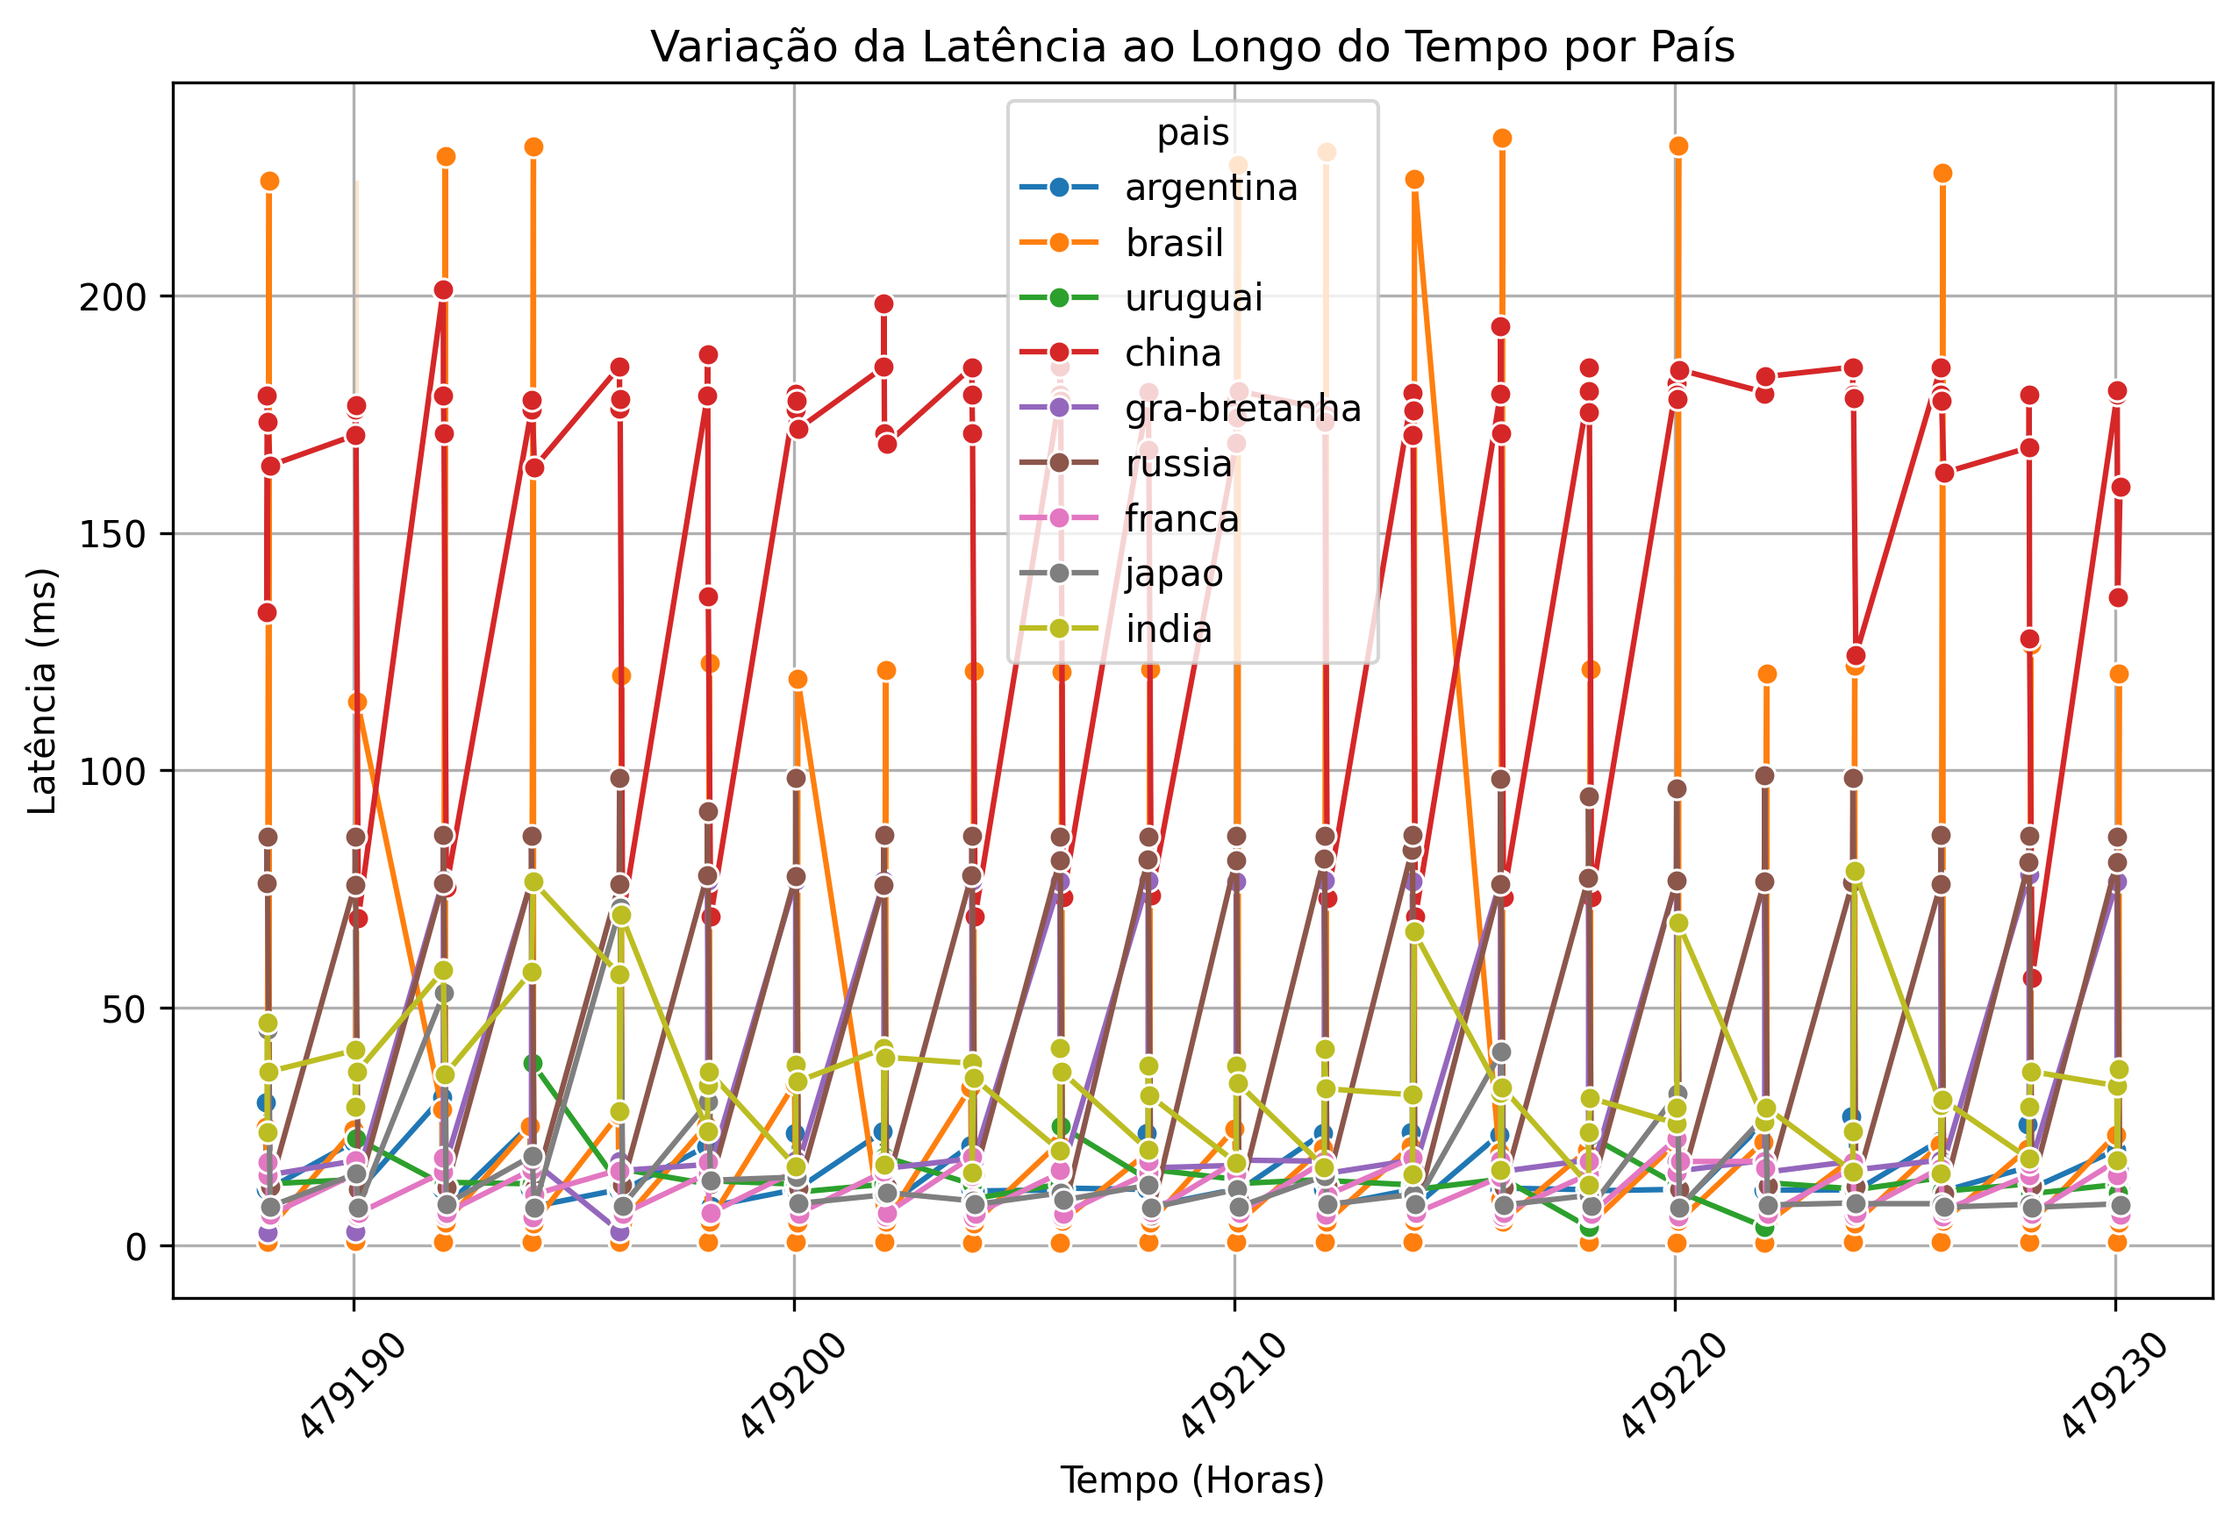
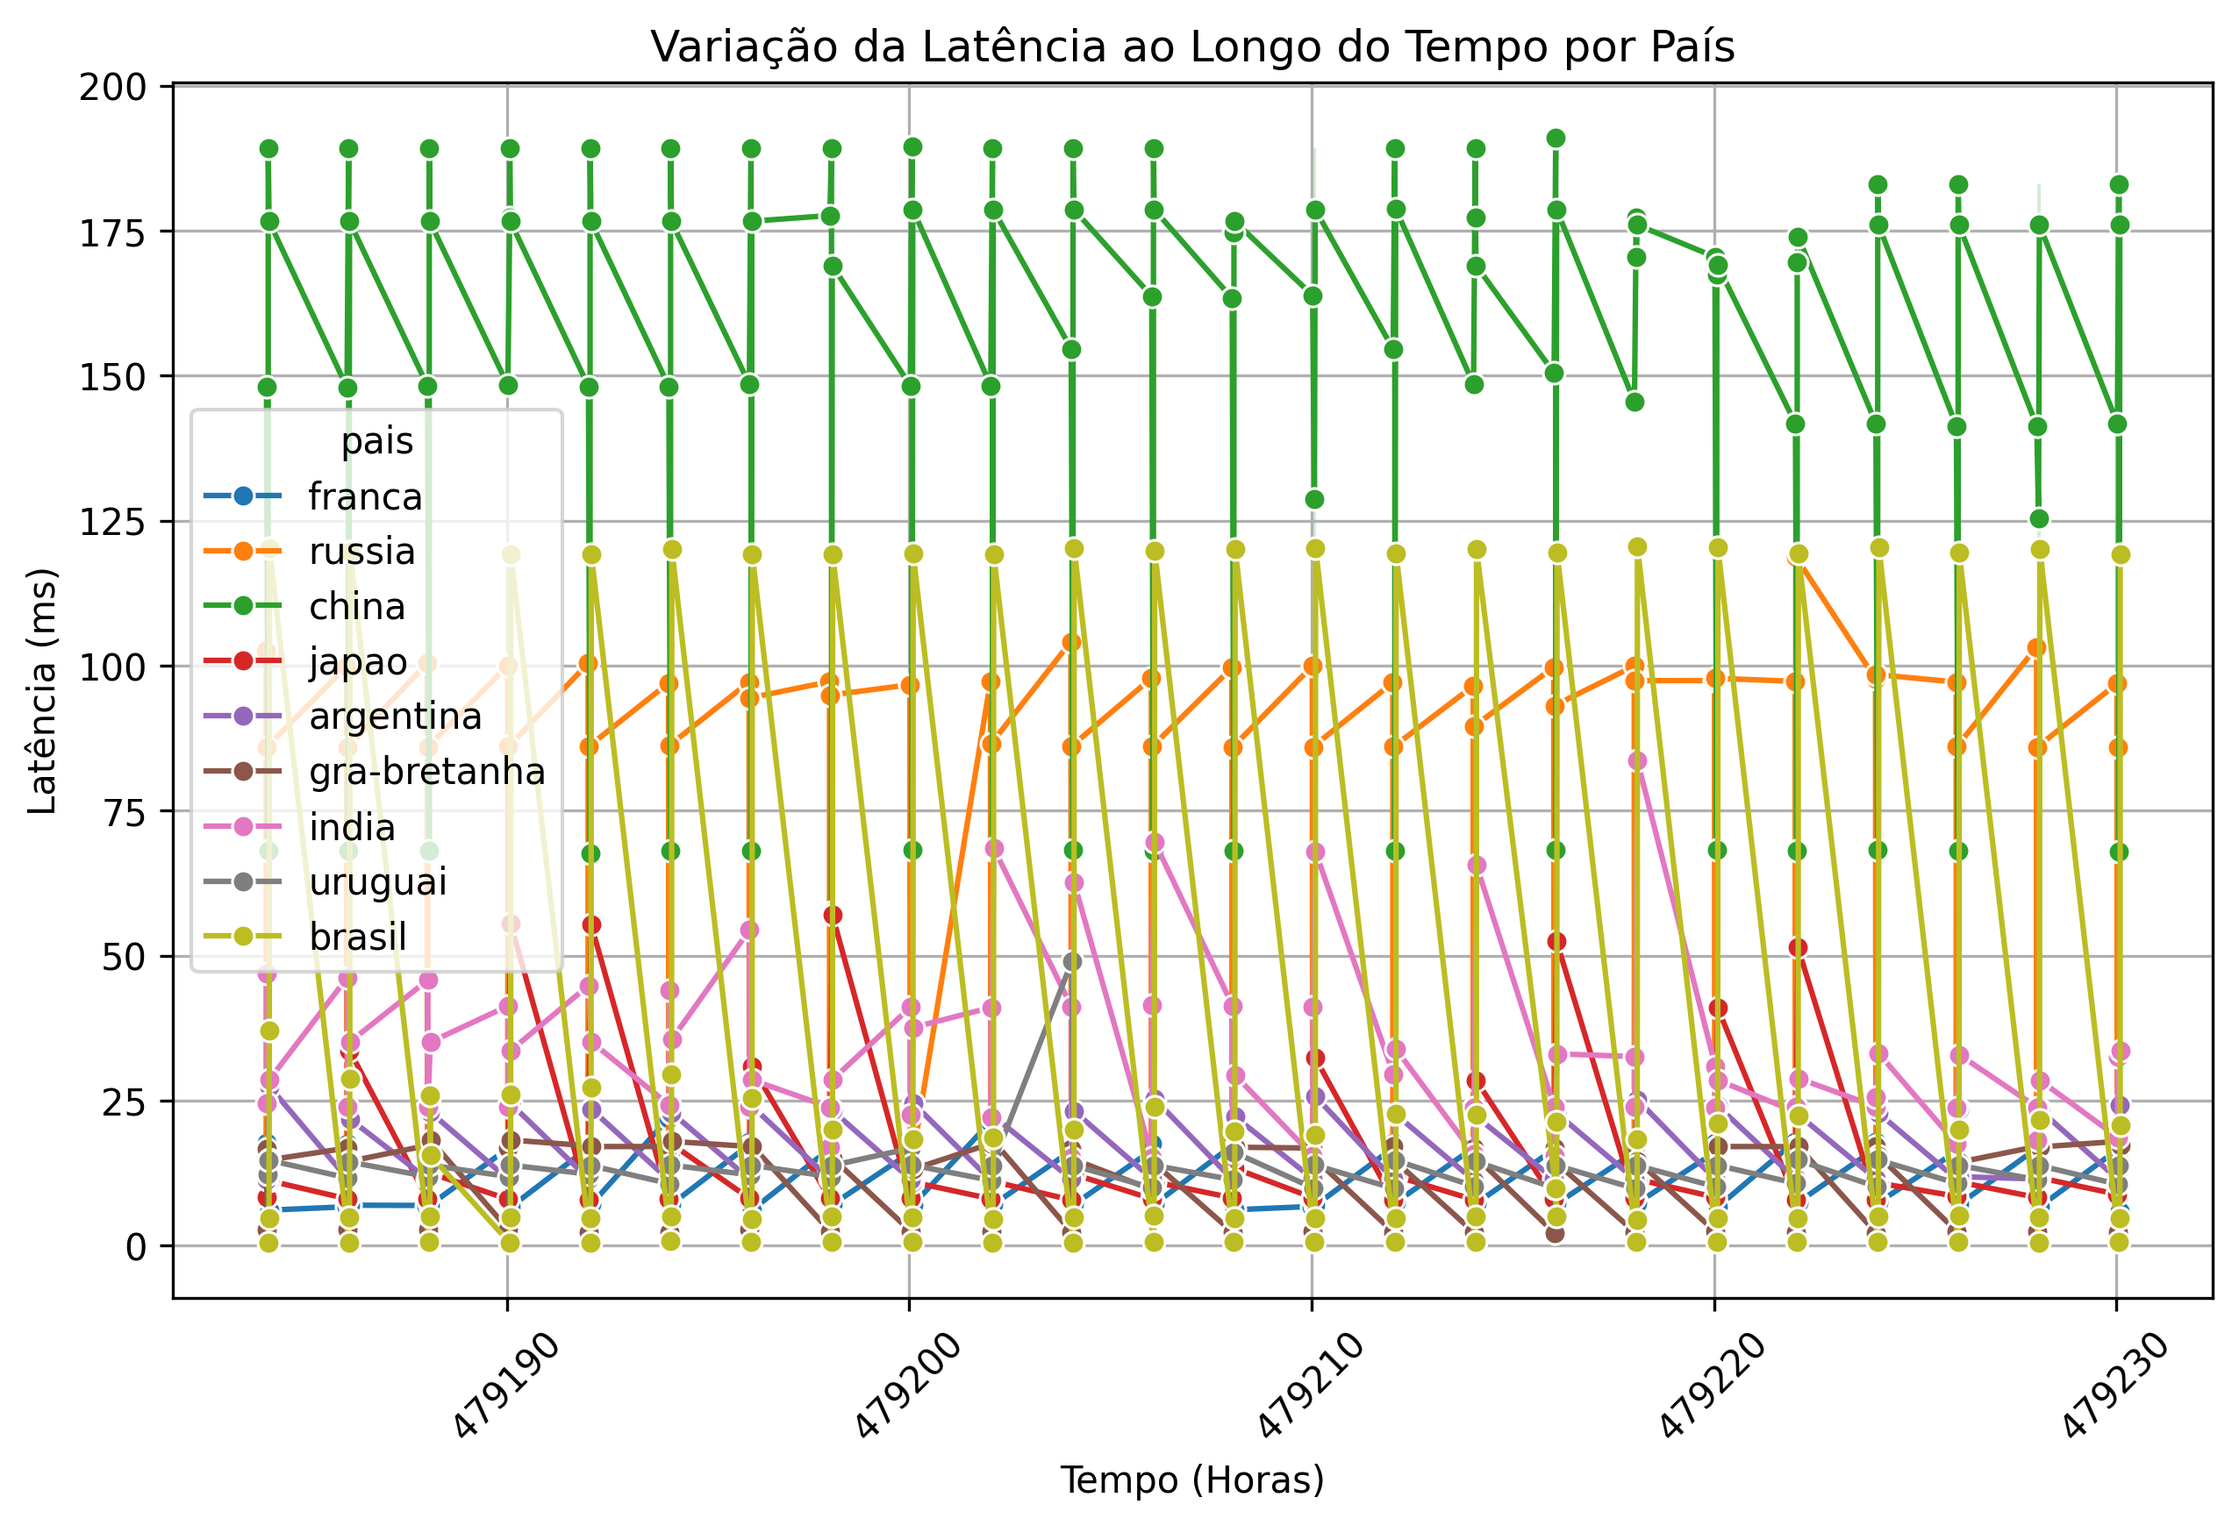
att: graficos separadinhos

diff --git a/codigos/saltos_tempo.py b/codigos/saltos_tempo.py
@@ -1,0 +1,104 @@
+import json
+import matplotlib.pyplot as plt
+
+#Funções que retornam a latencia por tempo de cada pais e continentes
+
+def probes_paises():
+    with open('max_resultados.json') as f1, open('disney_resultados.json') as f2, open('prime_resultados.json') as f3:
+        dados1 = json.load(f1)
+        dados2 = json.load(f2)
+        dados3 = json.load(f3)
+
+    dados = dados1 + dados2 + dados3
+
+    probes_por_pais_destino = {}
+    for item in dados:
+        pais = item['pais']
+        destino = item['destino']
+        
+        chave = (pais, destino)
+        if chave not in probes_por_pais_destino:
+            probes_por_pais_destino[chave] = []
+        
+        probes_por_pais_destino[chave].append(item)
+
+    plt.figure(figsize=(12,8))
+
+    for (pais, destino), probes in probes_por_pais_destino.items():
+        probes_ordenadas = sorted(probes, key=lambda x: x['timestamp'])
+        timestamps = [probe['timestamp'] for probe in probes_ordenadas]
+        saltos = [probe['quantidade_saltos'] for probe in probes_ordenadas]
+        
+        label = f'{pais} - {destino}'
+        plt.plot(timestamps, saltos, label=label)
+
+    plt.title('Quant. de saltos ao longo do tempo por país e destino')
+    plt.xlabel('Timestamp')
+    plt.ylabel('Quant. de saltos')
+    plt.legend(bbox_to_anchor=(1.05, 1), loc='upper left')
+    plt.grid(True)
+
+    plt.tight_layout()
+
+    plt.savefig('comparacao_saltos_probes_pais.png')
+
+    plt.show()
+
+def probes_continentes():
+    mapa_continentes = {
+        'franca': 'Europa',
+        'russia': 'Europa',
+        'china': 'Ásia',
+        'japao': 'Ásia',
+        'brasil': 'América do Sul',
+        'argentina': 'América do Sul',
+        'uruguai': 'América do Sul',
+        'gra-bretanha': 'Europa',
+        'india': 'Ásia'
+    }
+    
+    with open('max_resultados.json') as f1, open('disney_resultados.json') as f2, open('prime_resultados.json') as f3:
+        dados1 = json.load(f1)
+        dados2 = json.load(f2)
+        dados3 = json.load(f3)
+
+    dados = dados1 + dados2 + dados3
+
+    probes_por_continente_destino = {}
+    for item in dados:
+        pais = item['pais']
+        destino = item['destino']
+        
+        continente = mapa_continentes.get(pais, 'Desconhecido')
+        
+        if continente == 'Desconhecido':
+            print(f"Continente desconhecido para o país: {pais}")
+        
+        chave = (continente, destino)
+        if chave not in probes_por_continente_destino:
+            probes_por_continente_destino[chave] = []
+        probes_por_continente_destino[chave].append(item)
+
+    plt.figure(figsize=(12,8))
+
+    for (continente, destino), probes in probes_por_continente_destino.items():
+        probes_ordenadas = sorted(probes, key=lambda x: x['timestamp'])
+        timestamps = [probe['timestamp'] for probe in probes_ordenadas]
+        saltos = [probe['quantidade_saltos'] for probe in probes_ordenadas]
+        
+        label = f'{continente} - {destino}'
+        
+        plt.plot(timestamps, saltos, label=label)
+
+    plt.title('Quant. de saltos ao longo do tempo por continente e destino')
+    plt.xlabel('Timestamp')
+    plt.ylabel('Quant. de saltos (ms)')
+    plt.legend(bbox_to_anchor=(1.05, 1), loc='upper left')
+    plt.grid(True)
+
+    plt.tight_layout()
+    plt.savefig('comparacao_saltos_probes_continentes.png')
+    plt.show()
+
+probes_continentes()
+probes_paises()

diff --git a/codigos/latencia_probes_continentes.py b/codigos/latencia_probes_continentes.py
@@ -1,0 +1,68 @@
+import pandas as pd
+import matplotlib.pyplot as plt
+
+# Carregar os três JSONs
+df_disney = pd.read_json('disney_resultados.json')
+df_max = pd.read_json('max_resultados.json')
+df_prime = pd.read_json('prime_resultados.json')
+
+# Adicionar uma coluna de destino em cada DataFrame para identificar o destino
+df_disney['destino'] = 'Disney'
+df_max['destino'] = 'Max'
+df_prime['destino'] = 'Prime'
+
+# Adicionar uma coluna de país em cada DataFrame (preencha com o país correto para cada DataFrame)
+# Exemplo: df_disney['pais'] = 'Brasil'
+
+# Mapeamento de país para continente
+continentes = {
+    'franca': 'Europa',
+    'russia': 'Europa',
+    'china': 'Ásia',
+    'japao': 'Ásia',
+    'brasil': 'América do Sul',
+    'argentina': 'América do Sul',
+    'uruguai': 'América do Sul',
+    'gra-bretania': 'Europa',
+    'india': 'Ásia'
+}
+
+# Adicionar uma coluna de continente ao DataFrame
+df_combined = pd.concat([df_disney, df_max, df_prime], ignore_index=True)
+df_combined['continente'] = df_combined['pais'].map(continentes)
+
+# Agrupar por 'continente', 'probe_id' e 'destino' para calcular a média da latência
+latencia_media = df_combined.groupby(['continente', 'probe_id', 'destino'])['latencia'].mean().reset_index()
+
+# Função para gerar gráfico para um continente específico
+def gerar_grafico_continente(continente):
+    plt.figure(figsize=(10, 7))
+    df_continente = latencia_media[latencia_media['continente'] == continente]
+    
+    # Obter todas as probes no continente
+    probes = df_continente['probe_id'].unique()
+    
+    for probe in probes:
+        df_probe = df_continente[df_continente['probe_id'] == probe]
+        plt.plot(df_probe['destino'], df_probe['latencia'], marker='o', label=f'Probe {probe}')
+    
+    # Configurações do gráfico
+    plt.title(f'Latência Média por Probe para {continente}')
+    plt.xlabel('Destinos')
+    plt.ylabel('Latência Média (ms)')
+    plt.legend(title='Probes', bbox_to_anchor=(1.05, 1), loc='upper left')
+    plt.grid(True)
+    plt.tight_layout()
+
+    # Salvar o gráfico como um arquivo PNG
+    plt.savefig(f'latencia_media_{continente.lower().replace(" ", "_")}.png')
+    plt.close()
+
+# Gerar gráfico para América do Sul
+gerar_grafico_continente('América do Sul')
+
+# Gerar gráfico para Europa
+gerar_grafico_continente('Europa')
+
+# Gerar gráfico para Ásia
+gerar_grafico_continente('Ásia')

diff --git a/codigos/latencia_pais_destino.py b/codigos/latencia_pais_destino.py
@@ -11,9 +11,8 @@ df_disney['destino'] = 'Disney'
 df_max['destino'] = 'Max'
 df_prime['destino'] = 'Prime'
 
-# Adicionar uma coluna de país em cada DataFrame (assumindo que você tem essa informação)
+# Adicionar uma coluna de país em cada DataFrame (preencha com o país correto para cada DataFrame)
 # Exemplo: df_disney['pais'] = 'Brasil'
-# Preencha com o país correto para cada DataFrame
 
 # Mapeamento de país para continente
 continentes = {
@@ -33,25 +32,23 @@ df_combined = pd.concat([df_disney, df_max, df_prime], ignore_index=True)
 df_combined['continente'] = df_combined['pais'].map(continentes)
 
 # Filtrar apenas as probes da América do Sul
-df_south_america = df_combined[df_combined['continente'] == 'América do Sul']
+df_south_america = df_combined[df_combined['continente'] == 'Ásia']
 
-# Agrupar por 'destino', 'timestamp' e calcular a média da latência
-latencia_media_south_america = df_south_america.groupby(['destino', 'timestamp'])['latencia'].mean().reset_index()
-
-# Gerar o gráfico comparativo para a latência média da América do Sul
+# Gerar o gráfico comparativo para a latência da América do Sul
 plt.figure(figsize=(14, 8))
 
 # Obter todos os destinos
-destinos = latencia_media_south_america['destino'].unique()
+destinos = df_south_america['destino'].unique()
 
+# Plotar os valores de latência diretamente sem fazer a média
 for destino in destinos:
-    df_destino = latencia_media_south_america[latencia_media_south_america['destino'] == destino]
+    df_destino = df_south_america[df_south_america['destino'] == destino]
     plt.plot(df_destino['timestamp'], df_destino['latencia'], marker='o', label=f'Destino: {destino}')
 
 # Configurações do gráfico
-plt.title('Comparação de Latência Média da América do Sul ao Longo do Tempo para Diferentes Destinos')
+plt.title('Comparação de Latência da América do Sul ao Longo do Tempo para Diferentes Destinos')
 plt.xlabel('Timestamp')
-plt.ylabel('Latência Média (ms)')
+plt.ylabel('Latência (ms)')
 plt.legend(title='Destinos', bbox_to_anchor=(1.05, 1), loc='upper left')
 plt.grid(True)
 
@@ -59,8 +56,7 @@ plt.grid(True)
 plt.tight_layout()
 
 # Salvar o gráfico como um arquivo PNG
-plt.savefig('comparacao_latencia_south_america.png')
+plt.savefig('comparacao_latencia_asia.png')
 
 # Fechar a figura para liberar recursos
 plt.close()
-

diff --git a/codigos/saltos_pais_destino.py b/codigos/saltos_pais_destino.py
@@ -1,0 +1,62 @@
+import pandas as pd
+import matplotlib.pyplot as plt
+
+# Carregar os três JSONs
+df_disney = pd.read_json('disney_resultados.json')
+df_max = pd.read_json('max_resultados.json')
+df_prime = pd.read_json('prime_resultados.json')
+
+# Adicionar uma coluna de destino em cada DataFrame para identificar o destino
+df_disney['destino'] = 'Disney'
+df_max['destino'] = 'Max'
+df_prime['destino'] = 'Prime'
+
+# Adicionar uma coluna de país em cada DataFrame (preencha com o país correto para cada DataFrame)
+# Exemplo: df_disney['pais'] = 'Brasil'
+
+# Mapeamento de país para continente
+continentes = {
+    'franca': 'Europa',
+    'russia': 'Europa',
+    'china': 'Ásia',
+    'japao': 'Ásia',
+    'brasil': 'América do Sul',
+    'argentina': 'América do Sul',
+    'uruguai': 'América do Sul',
+    'gra-bretania': 'Europa',
+    'india': 'Ásia'
+}
+
+# Adicionar uma coluna de continente ao DataFrame
+df_combined = pd.concat([df_disney, df_max, df_prime], ignore_index=True)
+df_combined['continente'] = df_combined['pais'].map(continentes)
+
+# Filtrar apenas as probes da América do Sul
+df_south_america = df_combined[df_combined['continente'] == 'América do Sul']
+
+# Gerar o gráfico comparativo para a latência da América do Sul
+plt.figure(figsize=(14, 8))
+
+# Obter todos os destinos
+destinos = df_south_america['destino'].unique()
+
+# Plotar os valores de latência diretamente sem fazer a média
+for destino in destinos:
+    df_destino = df_south_america[df_south_america['destino'] == destino]
+    plt.plot(df_destino['timestamp'], df_destino['quantidade_saltos'], marker='o', label=f'Destino: {destino}')
+
+# Configurações do gráfico
+plt.title('Comparação de Quant. de saltos da América do Sul ao Longo do Tempo para Diferentes Destinos')
+plt.xlabel('Timestamp')
+plt.ylabel('Quant. de saltos')
+plt.legend(title='Destinos', bbox_to_anchor=(1.05, 1), loc='upper left')
+plt.grid(True)
+
+# Ajustar layout para evitar sobreposição
+plt.tight_layout()
+
+# Salvar o gráfico como um arquivo PNG
+plt.savefig('comparacao_saltos_south_america.png')
+
+# Fechar a figura para liberar recursos
+plt.close()

diff --git a/codigos/saltos_latencia_continente.py b/codigos/saltos_latencia_continente.py
@@ -1,0 +1,62 @@
+import pandas as pd
+import matplotlib.pyplot as plt
+
+# Carregar os três JSONs
+df_disney = pd.read_json('disney_resultados.json')
+df_max = pd.read_json('max_resultados.json')
+df_prime = pd.read_json('prime_resultados.json')
+
+# Adicionar uma coluna de destino em cada DataFrame para identificar o destino
+df_disney['destino'] = 'Disney'
+df_max['destino'] = 'Max'
+df_prime['destino'] = 'Prime'
+
+# Adicionar uma coluna de país em cada DataFrame (preencha com o país correto para cada DataFrame)
+# Exemplo: df_disney['pais'] = 'Brasil'
+
+# Mapeamento de país para continente
+continentes = {
+    'franca': 'Europa',
+    'russia': 'Europa',
+    'china': 'Ásia',
+    'japao': 'Ásia',
+    'brasil': 'América do Sul',
+    'argentina': 'América do Sul',
+    'uruguai': 'América do Sul',
+    'gra-bretania': 'Europa',
+    'india': 'Ásia'
+}
+
+# Adicionar uma coluna de continente ao DataFrame
+df_combined = pd.concat([df_disney, df_max, df_prime], ignore_index=True)
+df_combined['continente'] = df_combined['pais'].map(continentes)
+
+# Filtrar apenas as probes da América do Sul
+df_south_america = df_combined[df_combined['continente'] == 'América do Sul']
+
+# Gerar o gráfico comparativo para a latência da América do Sul
+plt.figure(figsize=(14, 8))
+
+# Obter todos os destinos
+destinos = df_south_america['destino'].unique()
+
+# Plotar os valores de latência diretamente sem fazer a média
+for destino in destinos:
+    df_destino = df_south_america[df_south_america['destino'] == destino]
+    plt.plot(df_destino['latencia'], df_destino['quantidade_saltos'], marker='o', label=f'Destino: {destino}')
+
+# Configurações do gráfico
+plt.title('Comparação de Latência e Quant. de saltos na América do Sul')
+plt.xlabel('Latência (ms)')
+plt.ylabel('Quant. de Saltos')
+plt.legend(title='Destinos', bbox_to_anchor=(1.05, 1), loc='upper left')
+plt.grid(True)
+
+# Ajustar layout para evitar sobreposição
+plt.tight_layout()
+
+# Salvar o gráfico como um arquivo PNG
+plt.savefig('comparacao_latencia_saltos_south_america.png')
+
+# Fechar a figura para liberar recursos
+plt.close()

diff --git a/codigos/graficos_juntos.py b/codigos/graficos_juntos.py
@@ -47,7 +47,7 @@ def grafico_comparar_destinos_saltos(df, salvar=False):
 # Função para gerar gráficos de correlação entre latência e saltos comparando destinos
 def grafico_comparar_destinos_correlacao(df, salvar=False):
     plt.figure(figsize=(12, 7))
-    sns.scatterplot(x='quantidade_saltos', y='latencia', hue='destino', data=df)
+    sns.lineplot(x='quantidade_saltos', y='latencia', hue='destino', data=df, marker='o')
     plt.title('Correlação entre Latência e Saltos Comparando Destinos')
     plt.xlabel('Quantidade de Saltos')
     plt.ylabel('Latência (ms)')
